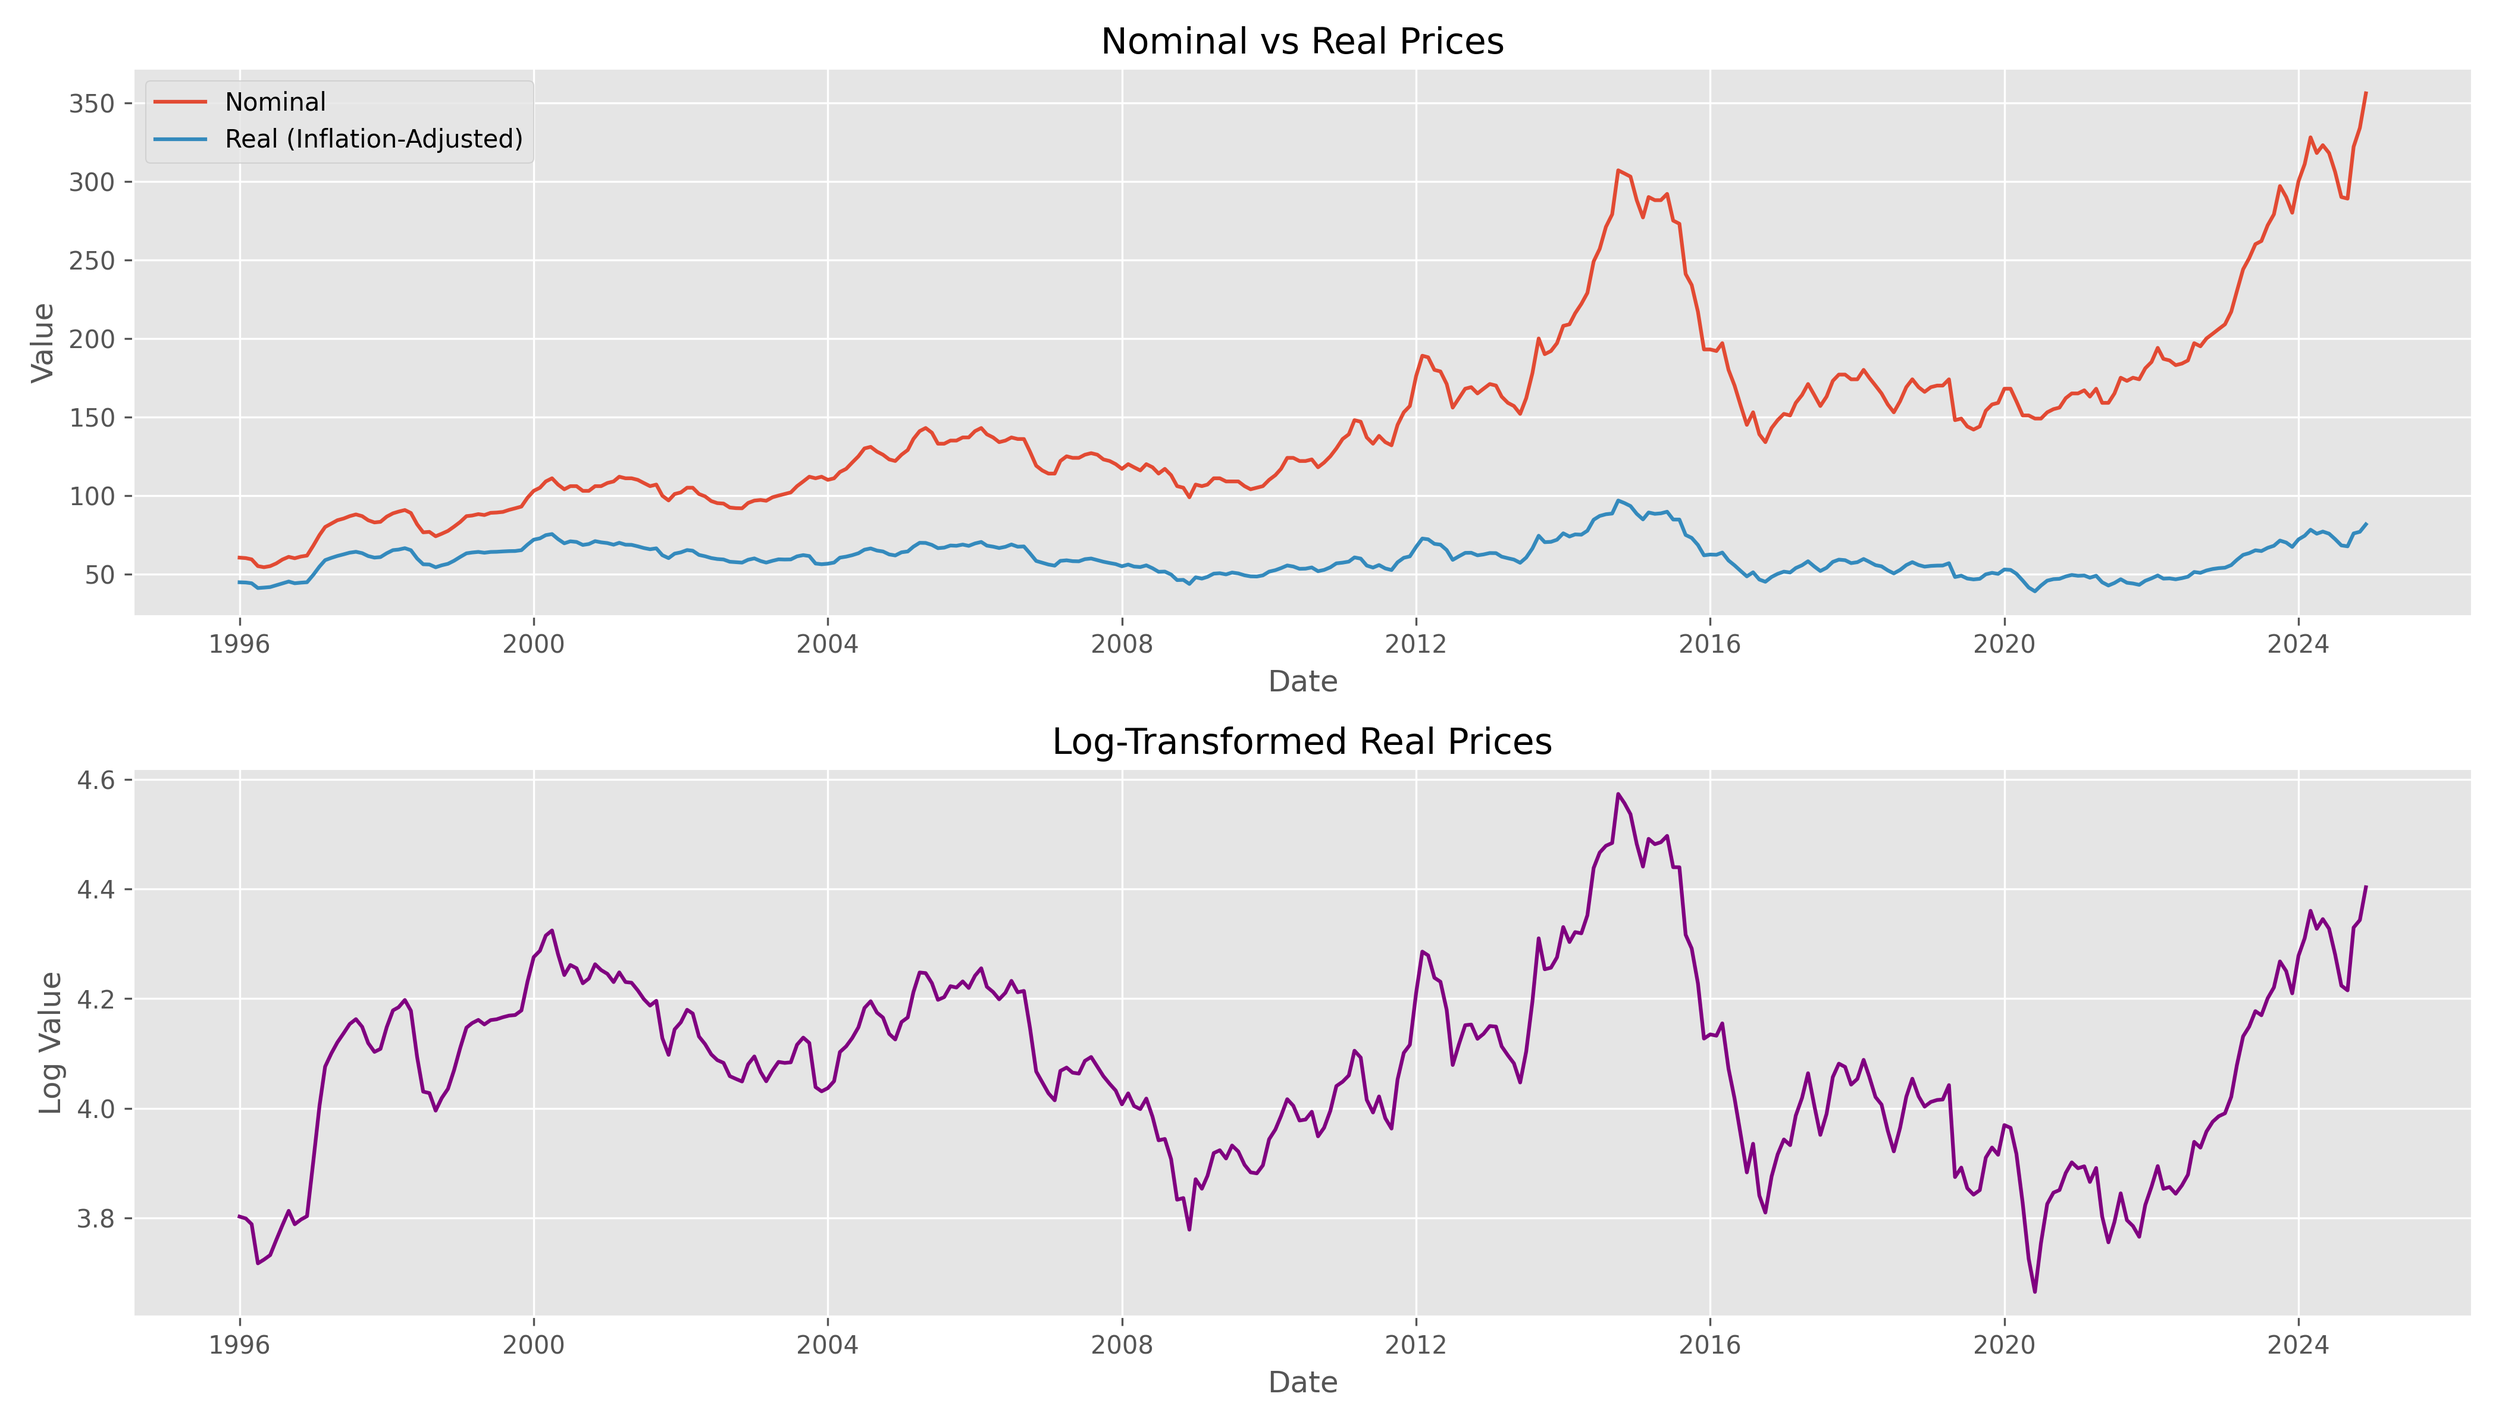
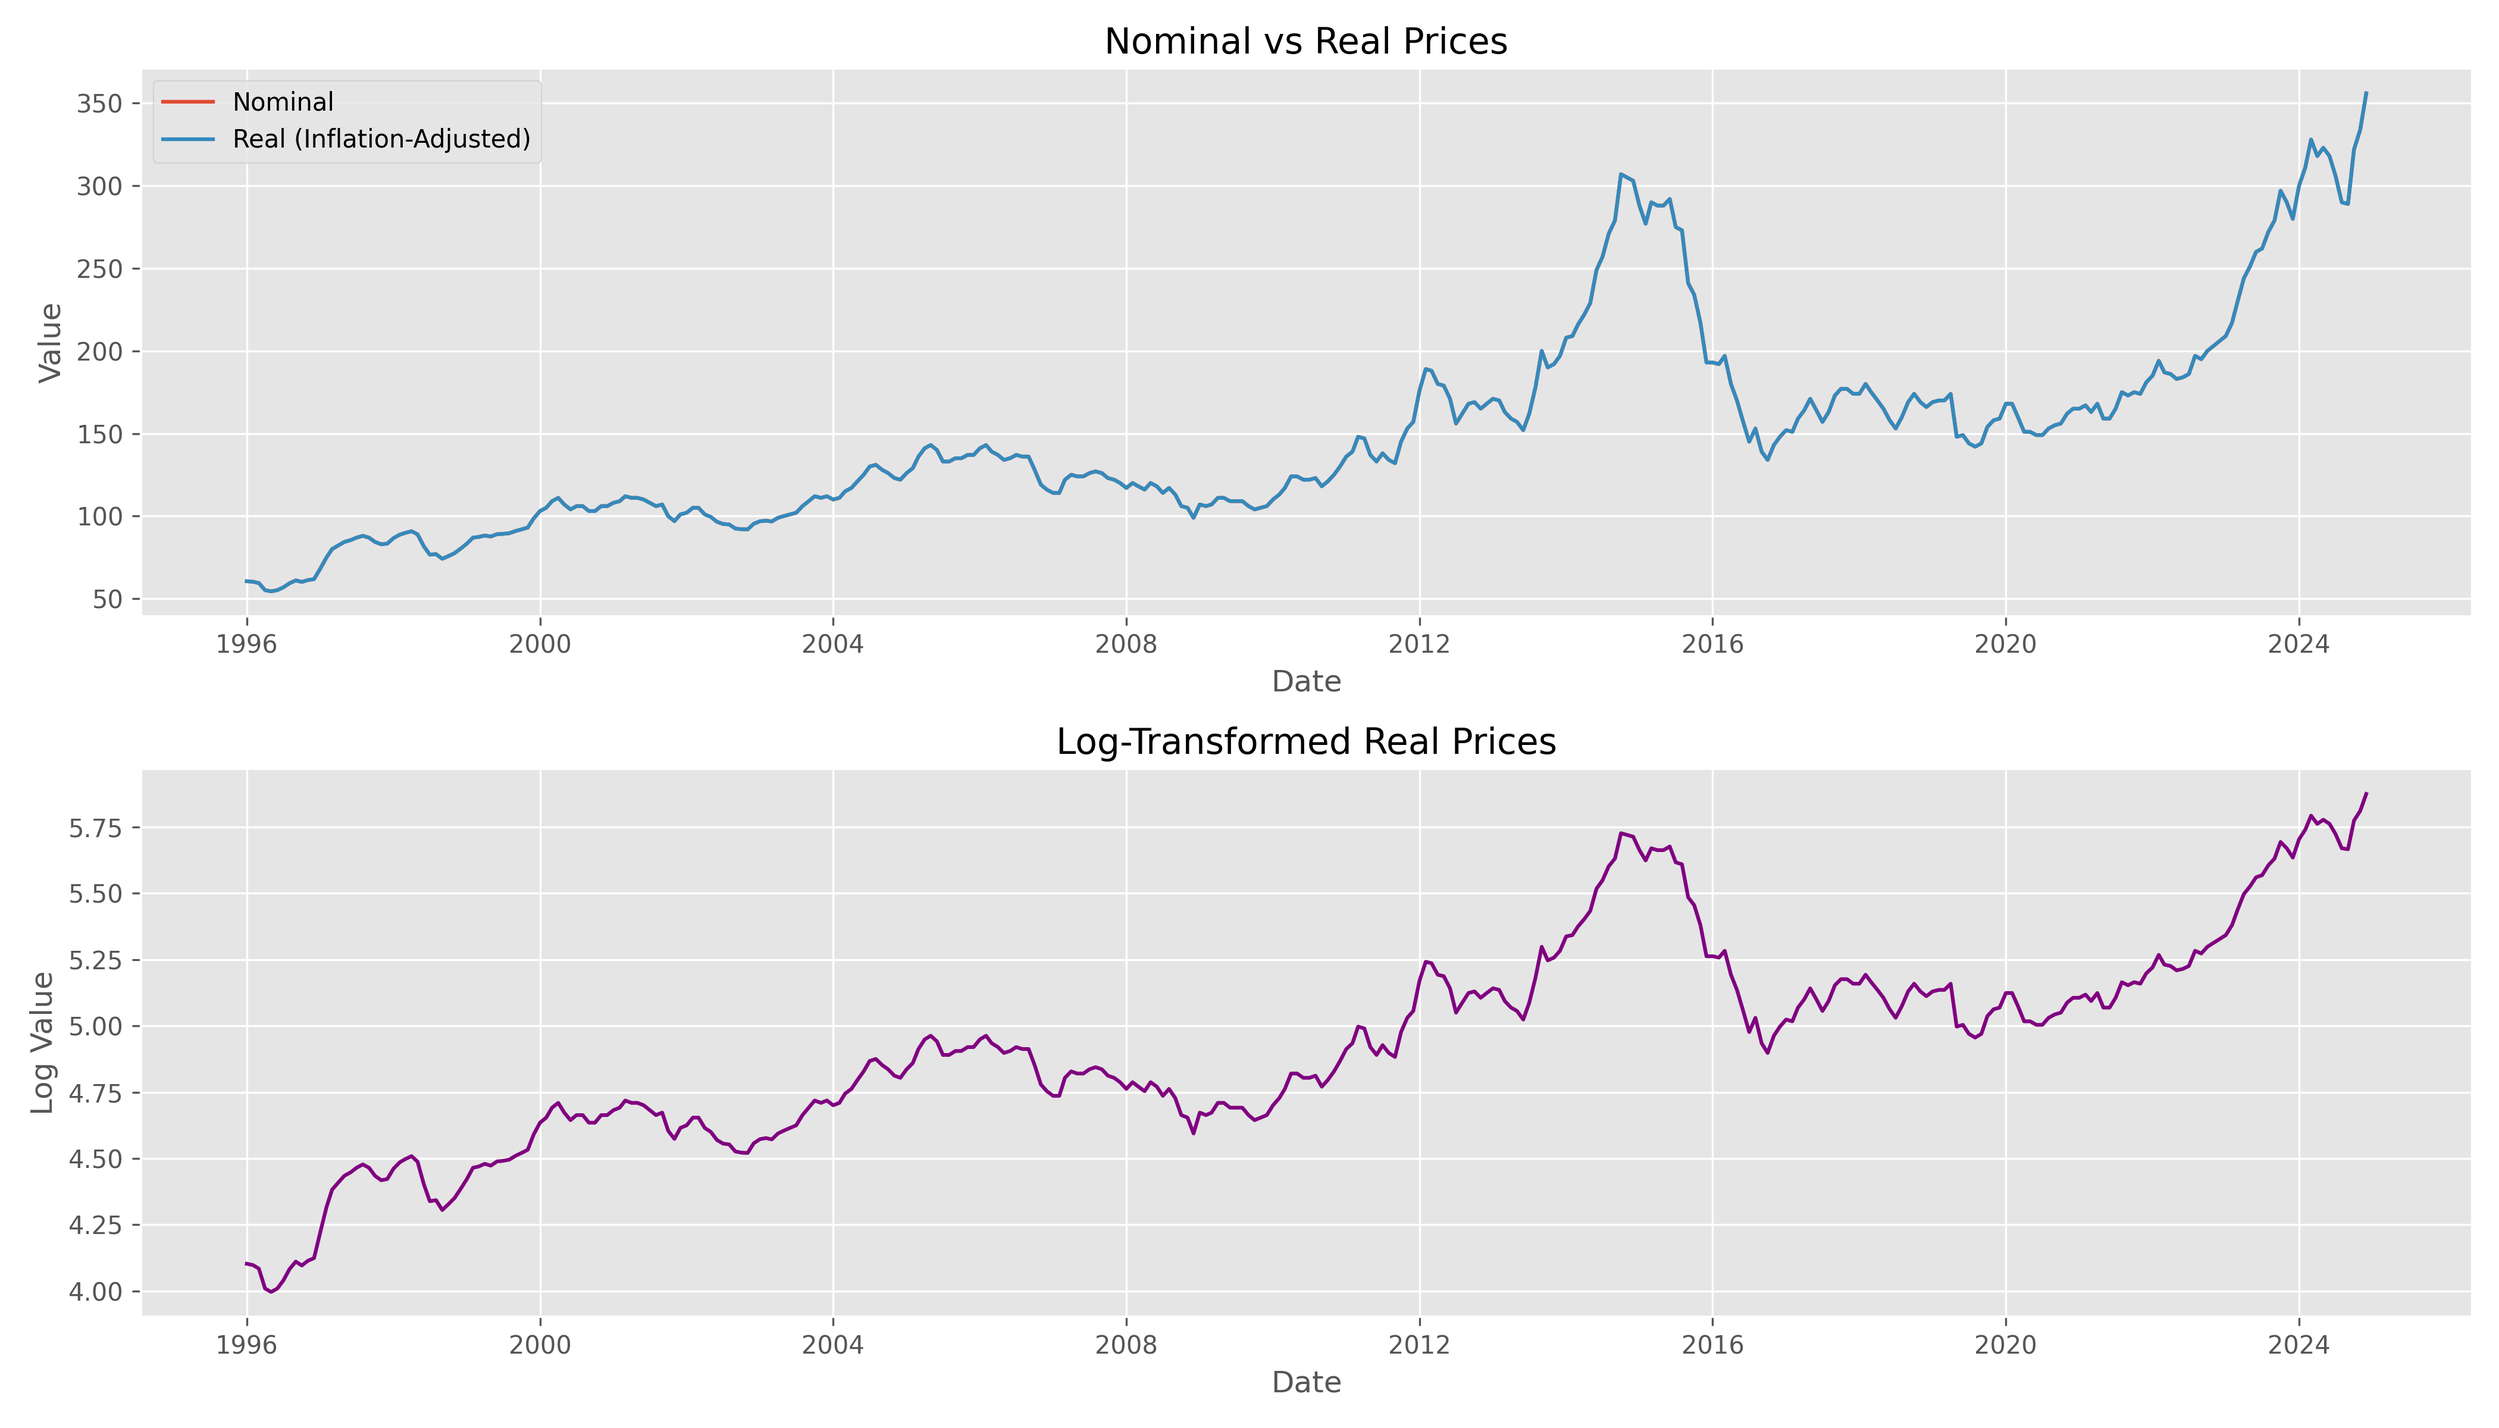
Update SARIMA code

diff --git a/sarimax_update.py b/sarimax_update.py
@@ -102,7 +102,7 @@ def evaluate_forecast(model_name, actual, predicted):
     print(f"MAE: {mae:.2f}, RMSE: {rmse:.2f}, R²: {r2:.2f}, MSE: {mse:.2f}, MAPE: {mape:.2f}%, MPE: {mpe:.2f}%, RMSPE: {rmspe:.2f}%")
     acc = 100.0 * (1 - mae / actual.mean()) if actual.mean() != 0 else float('nan')
     print(f"Accuracy (1 - MAE/mean * 100): {acc:.2f}%")
-    return mae, rmse
+    return mae, rmse, r2
 
 # Find optimal differencing order for stationarity
 def find_optimal_d(series, max_d=2):
@@ -157,6 +157,10 @@ def main():
         target_col = 'Gross_Revenue'
         data['Real_Price'] = data[target_col] / data['CPI'] * 100
     
+    # Apply log transformation to stabilize variance
+    print("Applying log transformation to stabilize variance...")
+    data['Log_Real_Price'] = np.log(data['Real_Price'] + 1e-9)
+    
     # EDA: Plot original vs real prices
     plt.figure(figsize=(14, 8))
     plt.subplot(2, 1, 1)
@@ -167,14 +171,23 @@ def main():
     plt.ylabel('Value')
     plt.legend()
     plt.grid(True)
+    
+    plt.subplot(2, 1, 2)
+    plt.plot(data['Date'], data['Log_Real_Price'], label='Log Real Price', color='purple')
+    plt.title('Log-Transformed Real Prices')
+    plt.xlabel('Date')
+    plt.ylabel('Log Value')
+    plt.grid(True)
+    plt.tight_layout()
+    plt.savefig('price_analysis.png', dpi=300)
     plt.show()
     
     # Step 1: ACF/PACF Analysis on Original Series
-    analyze_acf_pacf(data['Real_Price'], lags=36, title="Original Series")
+    analyze_acf_pacf(data['Log_Real_Price'], lags=36, title="Original Series (Log Transformed)")
     
     # Time series decomposition
     print("\nTime Series Decomposition:")
-    decomposition = decompose_series(data.set_index('Date')['Real_Price'], period=12)
+    decomposition = decompose_series(data.set_index('Date')['Log_Real_Price'], period=12)
     plot_decomposition(decomposition)
     
     # 80/20 split
@@ -182,13 +195,15 @@ def main():
     train = data.iloc[:split_idx]
     test = data.iloc[split_idx:]
     
+    exog_cols = ['Exchange_Rate_JPY_USD', 'Net_Gas_Price', 'CPI', 'Corn_Price']
+    
     # Determine differencing orders
     print("\nDetermining Differencing Orders:")
-    d = find_optimal_d(train['Real_Price'])
-    D = find_optimal_D(train['Real_Price'], s=12)
+    d = find_optimal_d(train['Log_Real_Price'])
+    D = find_optimal_D(train['Log_Real_Price'], s=12)
     
     # Apply differencing
-    stationary_series = train['Real_Price'].copy()
+    stationary_series = train['Log_Real_Price'].copy()
     if d > 0:
         stationary_series = stationary_series.diff(d).dropna()
     if D > 0:
@@ -221,9 +236,12 @@ def main():
                         for Q in Q_values:
                             try:
                                 model = SARIMAX(
-                                    train['Real_Price'],
+                                    endog=train['Log_Real_Price'],
+                                    exog=train[exog_cols],
                                     order=(p,d,q),
-                                    seasonal_order=(P,D,Q,m)
+                                    seasonal_order=(P,D,Q,m),
+                                    enforce_stationarity=False,
+                                    enforce_invertibility=False
                                 )
                                 results = model.fit(disp=False)
                                 if results.aic < best_aic:
@@ -243,62 +261,149 @@ def main():
         return
     
     # Fit best model on training data
+    print("\nFitting Best Model on Training Data...")
     best_model = SARIMAX(
-        train['Real_Price'],
-        order=best_order,
-        seasonal_order=best_seasonal_order
+        endog=train['Log_Real_Price'],
+        exog=train[exog_cols],
+        order=(p, d, q),
+        seasonal_order=(P, D, Q, 12),
+        enforce_stationarity=False,
+        enforce_invertibility=False
     )
-    results = best_model.fit(disp=False)
-    print(results.summary())
+    best_results = best_model.fit(disp=False)
+    print(best_results.summary())
 
-    # Forecast entire test period
-    forecast = results.get_forecast(steps=len(test))
-    pred_mean = forecast.predicted_mean
-    conf_int = forecast.conf_int()
+    # Prepare data structures
+    history = train['Log_Real_Price'].copy()
+    exog_history = train[exog_cols].copy()
+    test_dates = test['Date']
+    walk_forward_preds = []
+    conf_lower = []
+    conf_upper = []
+    
+    # Transformation functions
+    def log_to_original(x):
+        return np.exp(x) - 1e-9
+    
+    # Progress bar setup
+    progress_bar = tqdm(total=len(test), desc="Walk-Forward Forecasting")
+    
+    # Walk-forward validation
+    for i in range(len(test)):
+        # Create SARIMA model
+        model = SARIMAX(
+            endog=history,
+            exog=exog_history,
+            order=(p, d, q),
+            seasonal_order=(P, D, Q, 12),
+            enforce_stationarity=False,
+            enforce_invertibility=False
+        )
+        
+        # Fit model
+        results = model.fit(disp=False)
+        
+        # Forecast next step with confidence intervals
+        exog_forecast = test[exog_cols].iloc[i:i+1]
+        forecast = results.get_forecast(steps=1, exog=exog_forecast)
+        pred_mean = forecast.predicted_mean.iloc[0]
+        pred_ci = forecast.conf_int().iloc[0]
+        
+        # Store predictions and confidence intervals
+        walk_forward_preds.append(pred_mean)
+        conf_lower.append(pred_ci[0])
+        conf_upper.append(pred_ci[1])
+        
+        # Update history with actual test observation
+        actual_value = test['Log_Real_Price'].iloc[i]
+        # Create date index for current test observation
+        current_date = test_dates.iloc[i]
 
-    # Extract forecast results
-    test_actual = test['Real_Price']
-    preds = pred_mean
-    conf_lower = conf_int.iloc[:, 0]
-    conf_upper = conf_int.iloc[:, 1]
+        # Add actual value to history with correct date index
+        history = pd.concat([history, pd.Series([actual_value], index=[current_date])])
 
-    # Evaluate
-    mae, rmse = evaluate_forecast(
-        f"SARIMA({best_order})({best_seasonal_order})[12] - One-Time Fit",
-        test_actual,
-        preds
+        # Add corresponding exog with aligned index
+        exog_forecast.index = [current_date]
+        exog_history = pd.concat([exog_history, exog_forecast])
+        
+        # Update progress bar
+        progress_bar.update(1)
+    
+    progress_bar.close()
+    
+    # Create series for results
+    walk_forward_series = pd.Series(walk_forward_preds, index=test.index)
+    conf_lower_series = pd.Series(conf_lower, index=test.index)
+    conf_upper_series = pd.Series(conf_upper, index=test.index)
+    
+    # Transform back to original scale
+    test_original = log_to_original(test['Log_Real_Price'])
+    preds_original = log_to_original(walk_forward_series)
+    conf_lower_original = log_to_original(conf_lower_series)
+    conf_upper_original = log_to_original(conf_upper_series)
+    
+    # Evaluate performance on original scale
+    mae, rmse, r2 = evaluate_forecast(
+        f"SARIMAX({p},{d},{q})({P},{D},{Q})[12] Walk-Forward", 
+        test_original, 
+        preds_original
     )
-
-    # Plot
+    
+    # Setup figure
     fig, (ax1, ax2) = plt.subplots(2, 1, figsize=(14, 12), gridspec_kw={'height_ratios': [3, 1]})
-
-    # Entire time series
-    ax1.plot(data['Date'], data['Real_Price'], label='Historical Data', color='blue', alpha=0.7)
-    ax1.axvspan(data['Date'].iloc[0], data['Date'].iloc[split_idx-1], color='green', alpha=0.1, label='Training Period')
-    ax1.plot(test['Date'], test_actual, label='Actual Test Values', color='blue', linestyle='-', marker='o', markersize=5)
-    ax1.plot(test['Date'], preds, label='Forecast', color='red', linestyle='--', marker='x', markersize=6)
-    ax1.fill_between(test['Date'], conf_lower, conf_upper, color='gray', alpha=0.3, label='95% Confidence Interval')
-    ax1.axvline(x=test['Date'].iloc[0], color='gray', linestyle='--', label='Train-Test Split')
-    ax1.set_title(f"SARIMA Forecast\nOrder: ({best_order}) Seasonal: ({best_seasonal_order},12)")
+    
+    # Plot entire time series
+    ax1.plot(data['Date'], data['Real_Price'], 
+             label='Historical Data', color='blue', alpha=0.7)
+    
+    # Highlight training period
+    ax1.axvspan(data['Date'].iloc[0], data['Date'].iloc[split_idx-1], 
+                color='green', alpha=0.1, label='Training Period')
+    
+    # Plot test actuals
+    ax1.plot(test_dates, test_original, 
+             label='Actual Test Values', color='blue', linestyle='-', marker='o', markersize=5)
+    
+    # Plot walk-forward predictions
+    ax1.plot(test_dates, preds_original, 
+             label='Walk-Forward Forecast', color='red', linestyle='--', marker='x', markersize=6)
+    
+    # Plot confidence intervals
+    ax1.fill_between(test_dates, conf_lower_original, conf_upper_original,
+                     color='gray', alpha=0.3, label='95% Confidence Interval')
+    
+    # Train/test split line
+    ax1.axvline(x=test_dates.iloc[0], color='gray', 
+                linestyle='--', label='Train-Test Split')
+    
+    # Formatting
+    ax1.set_title(f"Walk-Forward SARIMA Forecast\nOrder: ({p},{d},{q}) Seasonal: ({P},{D},{Q},12)")
     ax1.set_ylabel("Real Price")
     ax1.legend(loc='upper left')
     ax1.grid(True)
+    
+    # Format x-axis dates
     ax1.xaxis.set_major_locator(mdates.YearLocator())
     ax1.xaxis.set_major_formatter(mdates.DateFormatter('%Y'))
-
-    # Forecast errors
-    forecast_errors = test_actual - preds
-    ax2.plot(test['Date'], forecast_errors, 'ro-', label='Forecast Error')
+    
+    # Plot forecast errors
+    forecast_errors = test_original - preds_original
+    
+    ax2.plot(test_dates, forecast_errors, 'ro-', label='Forecast Error')
     ax2.axhline(y=0, color='k', linestyle='-')
-    ax2.fill_between(test['Date'], -mae, mae, color='gray', alpha=0.2, label=f'±MAE ({mae:.2f})')
+    ax2.fill_between(test_dates, -mae, mae, color='gray', alpha=0.2, label=f'±MAE ({mae:.2f})')
+    
+    # Formatting
     ax2.set_title(f"Forecast Errors (MAE: {mae:.2f}, RMSE: {rmse:.2f})")
     ax2.set_xlabel("Date")
     ax2.set_ylabel("Error")
     ax2.legend()
     ax2.grid(True)
+    
+    # Format x-axis dates
     ax2.xaxis.set_major_locator(mdates.YearLocator())
     ax2.xaxis.set_major_formatter(mdates.DateFormatter('%Y'))
-
+    
     plt.tight_layout()
     plt.show()
 

diff --git a/svr.py b/svr.py
@@ -9,6 +9,45 @@ from sklearn.preprocessing import MinMaxScaler, StandardScaler
 from sklearn.metrics import mean_absolute_error, mean_squared_error
 import optuna
 
+# Export forecast residuals, predictions, and error metrics to CSV files.
+def export_forecast_results(
+    model_name: str,
+    dates: pd.Series,
+    actual: pd.Series,
+    predicted: pd.Series,
+    filename_prefix: str = "svr_forecast"
+):
+    results_df = pd.DataFrame({
+        'Date': dates.values,
+        'Actual': actual.values,
+        'Predicted': predicted.values,
+        'Residual': actual.values - predicted.values,
+    })
+
+    results_csv = f"{filename_prefix}_results.csv"
+    results_df.to_csv(results_csv, index=False)
+    print(f"[{model_name}] Residuals and predictions exported to: {results_csv}")
+
+    # Compute error metrics
+    mae = mean_absolute_error(actual, predicted)
+    rmse = np.sqrt(mean_squared_error(actual, predicted))
+    mse = mean_squared_error(actual, predicted)
+    mape = np.mean(np.abs((actual - predicted) / actual)) * 100
+    mpe = np.mean((actual - predicted) / actual) * 100
+    rmspe = np.sqrt(np.mean(((actual - predicted) / actual) ** 2)) * 100
+    ss_res = np.sum((actual - predicted)**2)
+    ss_tot = np.sum((actual - actual.mean())**2)
+    r2 = 1 - (ss_res / ss_tot) if ss_tot != 0 else float('nan')
+
+    metrics_df = pd.DataFrame({
+        'Metric': ['MAE', 'RMSE', 'R²', 'MSE', 'MAPE', 'MPE', 'RMSPE'],
+        'Value': [mae, rmse, r2, mse, mape, mpe, rmspe]
+    })
+
+    metrics_csv = f"{filename_prefix}_metrics.csv"
+    metrics_df.to_csv(metrics_csv, index=False)
+    print(f"[{model_name}] Evaluation metrics exported to: {metrics_csv}")
+
 def evaluate_forecast(model_name, actual, predicted):
     mae = mean_absolute_error(actual, predicted)
     rmse = np.sqrt(mean_squared_error(actual, predicted))
@@ -88,7 +127,7 @@ def main():
 
     exog_cols = [col for col in df.columns if col != target_col and col != "Date"]
 
-    split_idx = int(len(df) * 0.7)
+    split_idx = int(len(df) * 0.8)
     train_df = df.iloc[:split_idx]
     test_df  = df.iloc[split_idx:]
     
@@ -237,6 +276,14 @@ def main():
     plt.legend()
     plt.tight_layout()
     plt.show()
+
+    export_forecast_results(
+        model_name="SVR Rolling",
+        dates=test_df['Date'],
+        actual=y_test_full,
+        predicted=rolling_preds_series,
+        filename_prefix="svr_forecast"
+    )
 
 if __name__ == "__main__":
     main()
